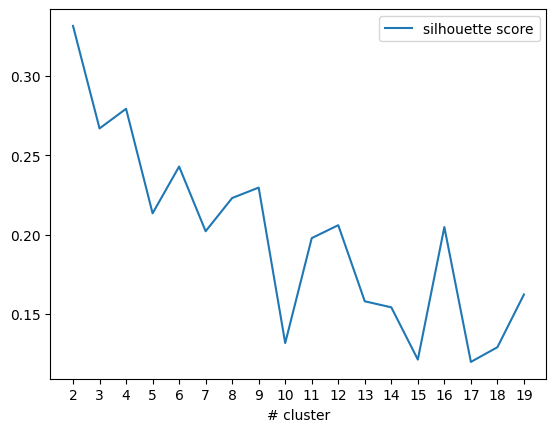
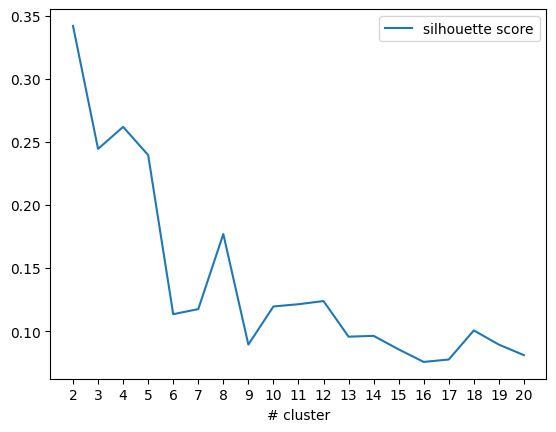
publishing time series clustering post

diff --git a/_posts/2023-09-01-clustering-large-timeseries-dtw-kmeans.md b/_posts/2023-09-01-clustering-large-timeseries-dtw-kmeans.md
@@ -1,0 +1,158 @@
+---
+layout: post
+title:  "Try to uncover clusters among time series data"
+excerpt: "Utilizing DBA-k-means techniques on time series data and assessing them using silhouette scores"
+date:   2023-09-01
+categories: [study]
+tags: [time series, dtw, clustering, dba, k-means]
+---
+
+Clustering is an unsupervised data mining technique for organizing data series into groups based on their similarity. In this post we make a focus on clustering large number of Time Series. Though the objective of the technique remains the same (maximize data similarity within clusters and minimize it across clusters) the implementation details are adapted to this particular data type.
+
+> Clustering is the practice of finding hidden patterns or similar groups in data. (Roelofsen, 2018)
+
+
+![Strawberry growth](/assets/2023-09-01/strawberry.jpeg){: width="90%" style="margin-left: auto;margin-right: auto;display: block;"  }
+
+- [Why clustering time series?](#why-clustering-time-series)
+- [The Theory](#the-theory)
+  - [1. Preprocessing method: Mean Variance Scaler](#1-preprocessing-method-mean-variance-scaler)
+  - [2. Metric: Dynamic Time Warping](#2-metric-dynamic-time-warping)
+  - [3. Prototyping with DTW Barycenter Averaging](#3-prototyping-with-dtw-barycenter-averaging)
+  - [4. The algorithm: DBA-k-means](#4-the-algorithm-dba-k-means)
+  - [5. Evaluation with the Silhouette Score](#5-evaluation-with-the-silhouette-score)
+- [The Application](#the-application)
+  - [Webstat data](#webstat-data)
+  - [Elbow method for determining the cluster count](#elbow-method-for-determining-the-cluster-count)
+  - [Graph summarizing the clustering results](#graph-summarizing-the-clustering-results)
+- [References](#references)
+
+# Why clustering time series?
+Clustering is employed to identify subgroups within a dataset, constituting an unsupervised approach as it entails uncovering inherent structures, such as distinct clusters, within the dataset.
+
+Both clustering and PCA (Principal Component Analysis) aim to simplify data by summarizing it, yet their methods diverge:
+* PCA aims to discover a low-dimensional representation of the data points that can explain a good fraction of the variance.
+* Clustering, on the other hand, aims to identify homogeneous subgroups among the data points.
+
+In the context of time-series visualization, clustering serves as an exploratory technique where we create clusters while considering the entire time series as a unified entity. The primary steps involved in this process are as follows:
+
+
+1. Preprocessing method: mean variance scaler
+2. Determining a distance measure to quantify the similarity between observations 
+3. Prototype, choose a centroid that summarizes the characteristics of all series in a cluster
+4. Choosing the algorithm to obtain the cluster, most common are partitional or hierarchical
+5. And evaluate the results via cluster validity indices
+
+# The Theory
+## 1. Preprocessing method: Mean Variance Scaler
+
+Since the selected metric is affected by scaling, we need to preprocess the time series with caution. The `TimeSeriesScalerMeanVariance` scaler is designed to ensure that each resulting time series has a mean of zero and a variance of one. The underlying assumption is that the range of a specific time series doesn't provide meaningful information, and the goal is solely to compare shapes in a way that is invariant to amplitude.
+
+## 2. Metric: Dynamic Time Warping
+
+Dynamic Time Warping (DTW), among the most widely utilized measures for time series analysis, was developed to address certain limitations of simpler similarity metrics like the Euclidean distance:
+
+1. It has the ability to handle time series of varying lengths.
+2. Unlike straightforward metrics, DTW doesn't merely compare the values of both time series point by point; it takes into account the temporal correlation between values, which often occurs with different lags.
+
+DTW constructs a square matrix of size $$m \times n$$, calculating squared distances between corresponding points of the two time series. This matrix serves as a cost matrix when searching for the most economical path between points $$(1,1)$$ and $$(m,n)$$, and this path's cost quantifies the similarity.
+
+The dynamic time warping score is defined as the minimum cost among all the warping paths:
+
+$$
+DTW(X,Y) = \min_{p \in \mathcal{P}} C_p(X,Y)
+$$
+
+where $$\mathcal{P}$$ is the set of warping paths.
+
+Here are some noteworthy characteristics and considerations regarding DTW:
+
+* It is sensitive to scaling, meaning that the scaling techniques applied will influence the metric and, consequently, the outcomes of clustering.
+* The time complexity of DTW is proportional to $$O(nm)$$, where $$n$$ and $$m$$ represent the lengths of the compared time series.
+* DTW permits the comparison of time series with dissimilar lengths. This characteristic may not necessarily be an advantage, as studies have demonstrated that employing linear reinterpolation to obtain equal length may be appropriate when the lengths of the time series, denoted as $$m$$ and $$n$$, do not vary significantly.
+
+
+## 3. Prototyping with DTW Barycenter Averaging
+In the clustering domain, a prototype refers to a single time series that provides a condensed representation of all the series within a cluster. In our context, we employ the DBA method to derive this prototype.
+
+The DTW Barycenter Averaging method, or DBA method, necessitates the selection of a reference series, often referred to as a centroid, typically chosen randomly from the dataset. During each iteration of this method, the DTW alignment is calculated between the chosen centroid and each series  of the cluster $$C$$.
+
+DBA is an iterative, global method. The latter means that the order in which the series enter the prototyping function does not affect the outcome. It is estimated through Expectation-Maximization algorithm.
+
+## 4. The algorithm: DBA-k-means
+K-means is an iterative clustering technique that necessitates a predetermined number of clusters and may converge to local optima due to its nature as a combinatorial optimization problem. While it can yield satisfactory cluster results, it lacks confidence indicators for cluster membership.
+
+The essence of K-means lies in minimizing intra-cluster distance while maximizing inter-cluster distance. However, achieving the optimal solution for large datasets is often infeasible. Instead, iterative greedy descent strategies are employed, focusing on a subset of the search space until convergence.
+
+In partitional clustering algorithms, the process typically starts with the random initialization of $$k$$ centroids, often by selecting $$k$$ objects from the dataset at random. These become individual clusters. Distances between all objects and centroids are then calculated, and each object is assigned to the cluster with the nearest centroid. Subsequently, a prototyping function is used to update the corresponding centroid for each cluster. This process of updating distances and centroids continues iteratively until a set number of iterations have been completed or no objects change clusters any more.
+
+## 5. Evaluation with the Silhouette Score
+In accordance with Cluster Validity Indices (CVIs), which provide a standardized framework for evaluating clusters, the Silhouette score is tailored for crisp partitions. It operates as an internal metric, as it exclusively assesses the partitioned data in an attempt to quantify cluster purity.
+
+Calculating the Silhouette index necessitates the computation of the entire cross-distance matrix among the original series. Consequently, this process can be computationally demanding, particularly when dealing with very large dataset of timeseries.
+
+For any data point $$ i \in C_I $$ let $$a(\cdot)$$ be a measure of how well $$i$$ is assigned to its cluster, the smaller the value the better the assignement:
+
+$$
+a(i) = { 1 \over | C_I | - 1 } \sum_{j \in C_I, i \neq j} d(i,j)
+$$
+
+Then let $$b(\cdot)$$ be the mean dissimilarity of point $$i$$ to its neigbooring cluster $$C_N$$, the mean distance of $$i$$ to all points in the closest cluster, where $$C_N$$ is a subset of $$C_J$$ and $$C_N \neq C_I$$
+
+$$
+b(i) = \min_{J \neq I} { 1 \over | C_J | }\sum_{j \in C_J} d(i,j)
+$$
+
+And finally, let $$s(\cdot)$$ be the silhouette value for any given data point $$i$$:
+
+$$
+s(i) = { b(i) - a(i) \over \max\{ a(i), b(i) \} } \text{, if }|C_I| > 1
+$$
+
+Then mean of the silhouette scores across all data points $$i$$, is a measure of how grouped all the points are, how well the clusters are well formed.
+
+$$
+mean \left ( s(i) \right ) = { 1 \over n }\sum_{i} { b(i) - a(i) \over \max \{ a(i), b(i) \} }
+$$
+
+# The Application
+
+In this part, we put the previously discussed theory into practice with a collection of time series data. To do this, I opted to retrieve data from the French Webstat API.
+
+
+## [Webstat](https://api.gouv.fr/les-api/webstat) data
+Webstat acts as the statistical hub for both the Bank of France and its affiliated institutions. Through the Webstat API, individuals have the ability to tap into a vast repository of over 35,000 statistical series encompassing economic and financial information about French companies, regional economic dynamics, trends in credit and savings, and comprehensive details about currency and balance of payments.
+
+From the thousands time series scraped, I filtered about 500 of them, on the main criteria of the start and end of the series, and their sampling rates. Hereafter, is a diagram representing the number of time series (represented by the thickness of the arrow), going from, and ending at.
+
+Out of thousands of time seires collected, I refined the selection to approximately 500 based on key criteria such as the series' start and end points, as well as their sampling rates. Presented below is a diagram depicting the durations covered by the collected time series. The number of time series is denoted by the thickness of the arrows, showing their origin from the start date (on the left side) and termination at the end date (on the right side).
+
+![Time span comparison](/assets/2023-09-01/timespan-comparison.png){: width="80%" style="margin-left: auto;margin-right: auto;display: block;"  }
+
+## Elbow method for determining the cluster count
+
+To determine the most suitable cluster number, I opted for the widely recognized technique known as the elbow curve. So I ended up calculating the silhouette score for different cluster sizes, ranging from 2 to 20 in this particular experiment. The diagram below illustrates the silhouette scores corresponding to the number of clusters.
+
+![Elbow curve of the number of clusters](/assets/2023-09-01/elbow-curve.png){: width="60%" style="margin-left: auto;margin-right: auto;display: block;"  }
+
+We can see that the silhouette score is going down chaotically, showing an abrupt spike at #8 clusters, followed by a subsequent decline. So I made an arbitrary decision to proceed with 9 clusters.
+
+## Graph summarizing the clustering results
+
+The following graph shows the 9 clusters on the left side, completed with the silhouette scores of each timeseries for each cluster on the right side. To get the best insight possible, I also added the most frequent words for each cluster in the titles. The most frequent words are parsed from the name of the time series.
+
+![Plot of the time series clusters with their centroïd](/assets/2023-09-01/ts-clusters.png)
+
+Looking at this graph, several observations can be made:
+* The number of samples by cluster is pretty unequal, ranging from 15 to more than one hundred
+* The first three clusters and the last three clusters exhibit a notably lower quality, with silhouette scores of their samples fluctuating between -0.5 and 0.5
+* Interpreting the most prevalent words in the titles proves to be challenging, as they encompass various types of data categorizations, including geography and economic domains.
+
+While I didn't uncover any particularly intriguing insights within this set of time series, I've provided you with [links to the data files and notebook files](https://github.com/ClementBM/sandbox/tree/main/webstat-tsclustering) I utilized. With your domain expertise, you may have a better chance of identifying meaningful clusters. Enjoy exploring!
+
+# References
+* [DTW Barycenter Averaging](https://tslearn.readthedocs.io/en/stable/gen_modules/barycenters/tslearn.barycenters.dtw_barycenter_averaging.html)
+* [Sklearn Silhouette Coefficient](https://scikit-learn.org/stable/modules/clustering.html#silhouette-coefficient)
+* [Clustering with PyCaret](https://nbviewer.org/github/pycaret/examples/blob/main/PyCaret%202%20Clustering.ipynb)
+* [Peter J. Rousseeuw (1987). "Silhouettes: a Graphical Aid to the Interpretation and Validation of Cluster Analysis". Computational and Applied Mathematics 20: 53-65.](http://www.sciencedirect.com/science/article/pii/0377042787901257)
+* [Wikipedia entry on the Silhouette Coefficient](https://en.wikipedia.org/wiki/Silhouette_(clustering))

diff --git a/_posts/2023-07-25-correlation-cognitive-function-chocolate-consumption.md b/_posts/2023-07-25-correlation-cognitive-function-chocolate-consumption.md
@@ -92,28 +92,8 @@ $$
 
 Hereafter are the numerical calculation in python (skipping imports for readability):
 
-```python
-r = 0.791
-z = math.log((1 + r) / (1 - r)) / 2
-# z = 1.074
+{% gist b697ea578532b2fbdae14b45793f679c confidence_interval_r.py %}
 
-n = 23
-s_z = 1 / math.sqrt(n - 3)
-# s_z = 0.226
-```
-
-```python
-z_1, z_2 = z - 2 * s_z, z + 2 * s_z
-# z_1, z_2 = 0.741, 1.407
-```
-
-```python
-def z_to_r(z):
-  return (math.exp(2 * z) - 1) / (math.exp(2 * z) + 1)
-
-r_1, r_2 = z_to_r(z_1), z_to_r(z_2)
-# r_1, r_2 = 0.630, 0.887
-```
 
 Finally the confidence interval is:
 
@@ -317,7 +297,7 @@ As the Spearman correlation coefficient give us a little more confidence in the 
 * [Nobel Prize - Laureates](https://public.opendatasoft.com/explore/dataset/nobel-prize-laureates/table/?flg=fr&disjunctive.category)
 * [List of countries by Nobel laureates per capita](https://en.wikipedia.org/wiki/List_of_countries_by_Nobel_laureates_per_capita)
 * [Food and Agriculture Organization of the UN](https://www.fao.org/faostat/en/#data)
-* [Cocoa ean consumtion per person, 2008](https://ourworldindata.org/grapher/chocolate-consumption-per-person?time=2008&country=AUS~DMA~NAM)
+* [Cocoa bean consumption per person, 2008](https://ourworldindata.org/grapher/chocolate-consumption-per-person?time=2008&country=AUS~DMA~NAM)
 * [31 Current Chocolate Statistics (Market Data 2023)](https://damecacao.com/chocolate-statistics)
 
 ## Chocolate international trades
